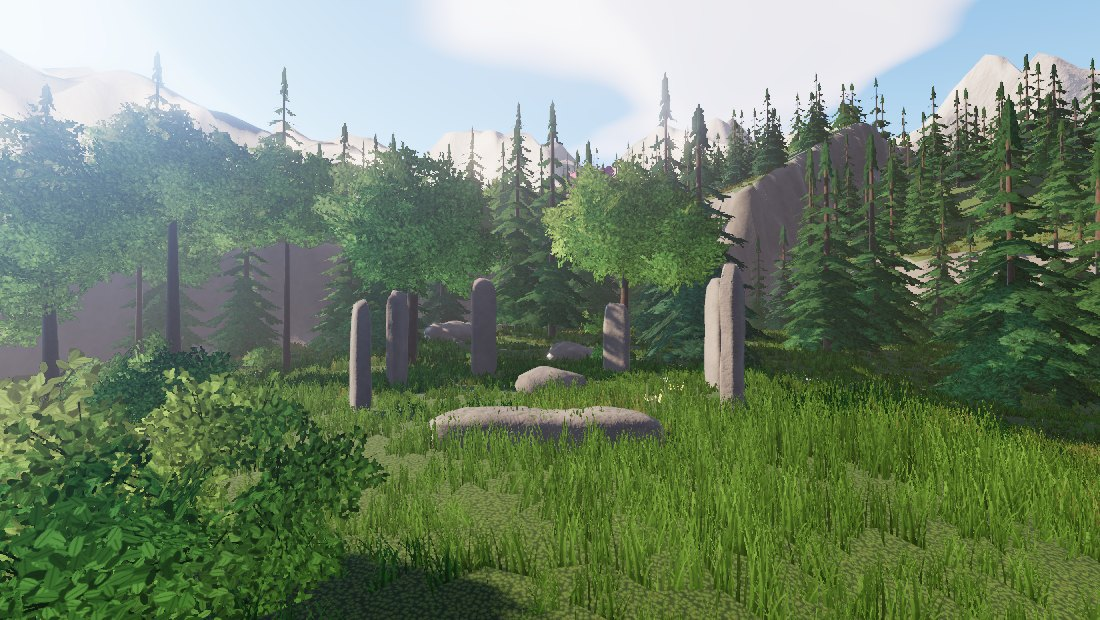
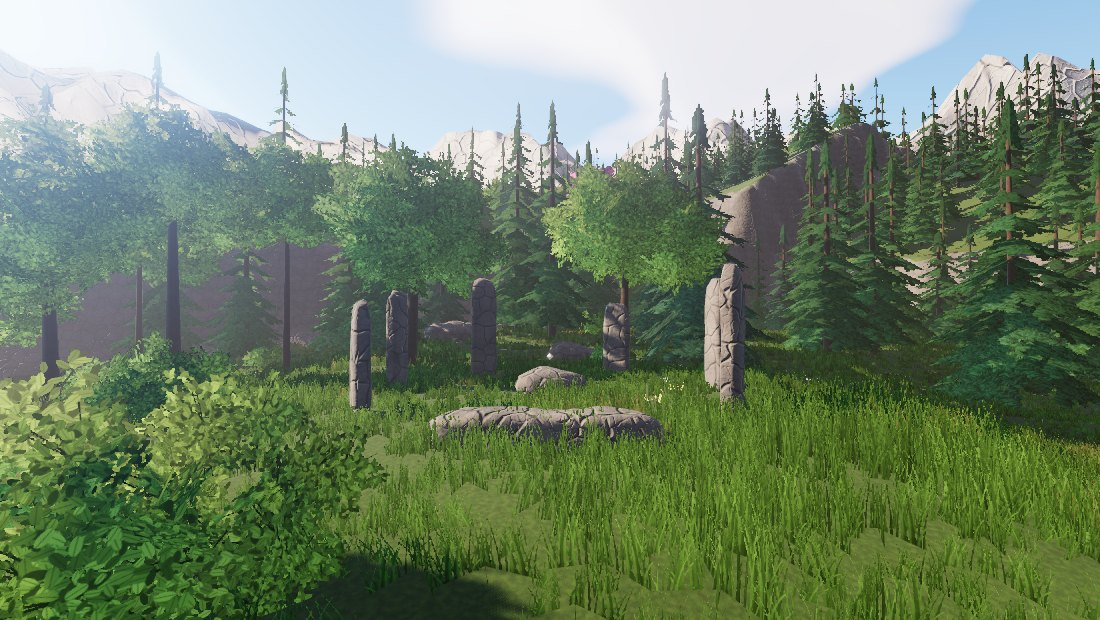
Rock that looks like rock, ground that is not pebbles, light through leaves
Two new procedural materials. Rock in the open, and in caves, is
plates split by cracks with finer fractures, bedding and lichen, in
place of the dressed-stone texture it borrowed. The ground under the
grass is a fine fibrous mat with earth in the low places, in place of
the moss texture, whose cells read as pebbles.

Leaf and grass cards let light through. The light used has already
been through the shadow map, so a crown seen against the sun glows
and one in shade does not.

The exported plan's valley caption is wrapped properly.

Claude-Session: https://claude.ai/code/session_01B8uYcq2gEB5Nx1DmHVHTup

diff --git a/src/render/textures.ts b/src/render/textures.ts
@@ -148,6 +148,59 @@ void surfaceFn(vec2 uv, float h, float cavity, out vec3 albedo, out float rough)
   albedo = base * (1. - cavity * .3);
   rough = .96;
 }`,
+  },  // Living rock in the open: plates split by cracks, smaller fractures within them, bedding, and
+  // ridged relief. Pale, like the dressed stone, so that the vertex tint sets its colour.
+  rock: {
+    normalStrength: 9.,
+    height: /* glsl */ `
+float heightFn(vec2 uv) {
+  vec2 warp = vec2(fbm(uv + 1.3, vec2(3.), 3, .5), fbm(uv + 8.9, vec2(3.), 3, .5)) * .9;
+  vec2 w1 = worley(uv * 5. + warp, vec2(5.));
+  vec2 w2 = worley(uv * 13. + warp * 1.7 + 4., vec2(13.));
+  float plates = smoothstep(.0, .14, w1.y - w1.x);
+  float chips = smoothstep(.0, .10, w2.y - w2.x);
+  float tilt = hash21(floor(uv * 5. + warp) + 2.) * .22;
+  float ridge = 1. - abs(fbm(uv + 3.1, vec2(6.), 5, .55)) * 2.4;
+  float bed = gnoise(vec2(uv.x * 3., uv.y * 26.), vec2(3., 26.)) * .5 + gnoise(vec2(uv.x * 7., uv.y * 70.), vec2(7., 70.)) * .25;
+  float grain = fbm(uv + 1.7, vec2(64.), 3, .6);
+  float h = .2 + plates * (.34 + .12 * chips) + tilt * plates + ridge * .2 + bed * .1 + grain * .08;
+  return clamp(h, 0., 1.);
+}`,
+    surface: /* glsl */ `
+void surfaceFn(vec2 uv, float h, float cavity, out vec3 albedo, out float rough) {
+  float blot = fbm(uv + 9.1, vec2(4.), 4, .5);
+  float speck = hash21(floor(uv * 512.));
+  vec3 base = mix(vec3(.50, .50, .51), vec3(.72, .70, .67), smoothstep(-.3, .35, blot));
+  // Lichen: pale grey-green and ochre crusts on the high, dry parts.
+  float crust = smoothstep(.16, .34, fbm(uv + 21.4, vec2(9.), 4, .6)) * smoothstep(.35, .7, h);
+  base = mix(base, mix(vec3(.62, .66, .50), vec3(.70, .58, .32), step(.5, hash21(floor(uv * 9.) + 5.))), crust * .55);
+  base *= mix(.72, 1.08, smoothstep(.15, .8, h));
+  base *= 1. - cavity * .6;
+  base *= .95 + speck * .1;
+  albedo = base;
+  rough = clamp(.9 + cavity * .08 - smoothstep(.6, .9, h) * .1, .55, 1.);
+}`,
+  },
+  // The ground under grass: a fine, fibrous mat with earth showing in the low places. No pattern
+  // large enough to be seen repeating; the grass standing on it carries the look.
+  ground: {
+    normalStrength: 3.5,
+    height: /* glsl */ `
+float heightFn(vec2 uv) {
+  float clump = fbm(uv + 4.2, vec2(7.), 4, .55);
+  float thatch = gnoise(vec2(uv.x * 40., uv.y * 110.), vec2(40., 110.)) * .5 + gnoise(vec2(uv.x * 120., uv.y * 46.), vec2(120., 46.)) * .5;
+  float fine = fbm(uv, vec2(90.), 3, .6);
+  return clamp(.5 + clump * .55 + thatch * .22 + fine * .16, 0., 1.);
+}`,
+    surface: /* glsl */ `
+void surfaceFn(vec2 uv, float h, float cavity, out vec3 albedo, out float rough) {
+  float t = fbm(uv + 5.5, vec2(5.), 4, .55);
+  vec3 grass = mix(vec3(.05, .095, .022), vec3(.10, .17, .035), smoothstep(.3, .75, h));
+  grass = mix(grass, vec3(.19, .2, .06), smoothstep(.1, .45, t) * .45);
+  vec3 earth = vec3(.11, .085, .05);
+  albedo = mix(grass, earth, smoothstep(.42, .26, h) * .8) * (1. - cavity * .35);
+  rough = .96;
+}`,
   },
 };
 

diff --git a/src/render/vegetation.ts b/src/render/vegetation.ts
@@ -178,6 +178,18 @@ attribute vec3 aCentre; uniform float uTime; uniform float uWind; uniform float 
   ${ground ? 'transformed *= 1.0 - smoothstep( uRange * 0.66, uRange, distance( cameraPosition, at ) );' : ''}
 }`);
     shader.fragmentShader = shader.fragmentShader
+      // Light comes through a leaf as well as off it. Seen against the sun a crown glows, and its
+      // shaded side is not black. The light used here has already been through the shadow map,
+      // so leaves in shade stay dark.
+      .replace('#include <lights_physical_pars_fragment>', /* glsl */ `#include <lights_physical_pars_fragment>
+void RE_Direct_Leaf( const in IncidentLight directLight, const in vec3 geometryPosition, const in vec3 geometryNormal, const in vec3 geometryViewDir, const in vec3 geometryClearcoatNormal, const in PhysicalMaterial material, inout ReflectedLight reflectedLight ) {
+  RE_Direct_Physical( directLight, geometryPosition, geometryNormal, geometryViewDir, geometryClearcoatNormal, material, reflectedLight );
+  float against = pow( saturate( dot( -geometryViewDir, directLight.direction ) ), 3.0 );
+  float behind = saturate( -dot( geometryNormal, directLight.direction ) );
+  reflectedLight.directDiffuse += directLight.color * material.diffuseColor * RECIPROCAL_PI * vec3( 1.2, 1.25, 0.55 ) * ( against * 0.9 + behind * 0.22 );
+}
+#undef RE_Direct
+#define RE_Direct RE_Direct_Leaf`)
       // A two-sided material turns the normal round on back faces; these normals must not turn.
       .replace('#include <normal_fragment_begin>', /* glsl */ `#include <normal_fragment_begin>
 normal = normalize( vNormal );`)
@@ -187,7 +199,7 @@ normal = normalize( vNormal );`)
 reflectedLight.indirectSpecular = vec3( 0.0 );
 reflectedLight.directSpecular *= 0.2;`);
   };
-  material.customProgramCacheKey = () => `cards3-${set.shape}-${sway}-${ground}`;
+  material.customProgramCacheKey = () => `cards4-${set.shape}-${sway}-${ground}`;
   const depth = set.shadow ? new MeshDepthMaterial({ depthPacking: RGBADepthPacking, map: texture, alphaTest: 0.42 }) : null;
 
   // Which block each card falls in.

diff --git a/src/app/main.ts b/src/app/main.ts
@@ -98,14 +98,16 @@ async function start(): Promise<void> {
   const stone = generateTextureSet(renderer, 'stone', texSize, 3);
   const wood = generateTextureSet(renderer, 'wood', texSize, 5);
   const moss = generateTextureSet(renderer, 'moss', texSize / 2, 9);
+  const rock = generateTextureSet(renderer, 'rock', texSize, 13);
+  const ground = generateTextureSet(renderer, 'ground', texSize, 17);
   const materials: Record<string, MeshStandardMaterial> = {
     stone: makeSiteMaterial(stone, moss, { normalScale: 1.0 }),
     floor: makeSiteMaterial(stone, moss, { normalScale: 1.2 }),
     slate: makeSiteMaterial(stone, moss, { normalScale: 0.7, roughness: 0.8 }),
     wood: makeSiteMaterial(wood, moss, { normalScale: 1.0 }),
-    rock: makeSiteMaterial(stone, moss, { normalScale: 2.2 }),
+    rock: makeSiteMaterial(rock, moss, { normalScale: 1.5 }),
     // Grass and leaves use the moss recipe as their own surface, tinted per vertex.
-    turf: makeSiteMaterial(moss, moss, { normalScale: 0.9 }),
+    turf: makeSiteMaterial(ground, moss, { normalScale: 1.0 }),
     leaf: makeSiteMaterial(moss, moss, { normalScale: 2.4 }),
   };
 
@@ -342,7 +344,7 @@ async function start(): Promise<void> {
   const exportSource = () => ({
     statics,
     doors: game ? game.doors.map((d) => ({ node: d.group, way: d.desc.way, material: d.desc.material })) : [],
-    textures: { stone, floor: stone, slate: stone, rock: stone, wood, turf: moss, leaf: moss },
+    textures: { stone, floor: stone, slate: stone, rock, wood, turf: ground, leaf: moss },
   });
   const menu = document.getElementById('exportMenu')!;
   document.getElementById('export')!.addEventListener('click', () => (menu.hidden = !menu.hidden));

diff --git a/src/export/exporter.ts b/src/export/exporter.ts
@@ -74,7 +74,8 @@ export function planCanvas(site: Site, size = 1800): HTMLCanvasElement {
     ctx.font = `600 ${line * 0.95}px ui-serif, Georgia, serif`;
     ctx.fillText('The valley', line * 1.5, top);
     ctx.font = `${line * 0.82}px ui-serif, Georgia, serif`;
-    ctx.fillText('The track from where you arrive to the door, the pond, and the standing stones. Rock shuts the valley in.', line * 1.5, top + line * 1.4, size - valley - line * 4);
+    wrap(ctx, 'The track from where you arrive to the door, the pond, and the standing stones. Rock shuts the valley in on three sides.', size - valley - line * 5)
+      .forEach((text, k) => ctx.fillText(text, line * 1.5, top + line * (1.5 + k * 1.15)));
     ctx.drawImage(sheet, size - valley - line * 1.5, top);
   }
   return out;

diff --git a/src/render/siteMesher.ts b/src/render/siteMesher.ts
@@ -253,7 +253,7 @@ export function meshSite(site: Site): SceneDescription {
     const worn = (x: number, z: number) => (z < p.z1 - 6 ? 0 : 1 - smooth((Math.abs(x - pathAt(z)) - 0.5) / 1.1)) * smooth((z - p.z1 + 6) / 3);
     const turfAt = (x: number, z: number): Colour => {
       const c = turfColour(x, z, s1), w = worn(x, z) * (0.75 + 0.25 * fbm2(x * 1.3, z * 1.3 + s1, 2));
-      return [c[0] + (2.5 - c[0]) * w, c[1] + (0.95 - c[1]) * w, c[2] + (0.5 - c[2]) * w];
+      return [c[0] + (2.3 - c[0]) * w, c[1] + (1.0 - c[1]) * w, c[2] + (2.2 - c[2]) * w];
     };
     const cliff = site.top - p.floor + 0.5;
     const turf = kit.mesh('turf');

diff --git a/docs/04-look.md b/docs/04-look.md
@@ -153,9 +153,9 @@ What that takes, and what is in place:
 | Ground cover: grass, flowers, low bushes | In place, as instanced cards with wind. Thin at the foot of the banks. |
 | Trees with leafy crowns, several kinds, one in blossom | In place. Crowns are clouds of leaf cards shaded about a common centre; firs are tiers of bough cards. Trunks are plain, without branches. |
 | Land running to the horizon | In place: a fine sheet over the valley and its rim, which can be walked, a coarse one out to 250 metres, and a ring of mountains to 750. |
-| Rock: banks, outcrops, boulders | Shaped and placed, but too smooth close to: it needs a rock material of its own and finer relief. |
-| Leaves lit from behind | Not done. Leaves are matt and opaque to light. |
-| A worn earth path, and ground that is more than one texture | Partly. The track down the valley is turf tinted to earth, with no grass on it; there is still only one ground texture. |
+| Rock: cliffs, outcrops, boulders, standing stones | Shaped and placed, with a rock material of its own: plates split by cracks, bedding and lichen. The shapes themselves are still smooth at the scale of a hand; the relief is all in the material. |
+| Leaves lit from behind | In place. Light that has passed the shadow map is let through each card, strongest when the leaf is seen against the sun. |
+| A worn earth path, and ground that is more than one texture | Partly. The track down the valley is turf tinted to earth, with no grass on it; the ground has a material of its own, a fine mat with earth in the low places, but still only the one. |
 | Water | A pond: a level sheet, dark and nearly a mirror, with drifting ripples. It does not show the bed through shallow water, has no shoreline foam or wet edge, and no running water. |
 | Things built outdoors: fences, steps, bridges, jetties | A landing stage and a post-and-rail fence, in plain squared timber. No steps or bridges. |
 | Haze and light shafts through the trees | Haze is in place. The fog does not yet know about the trees, so there are no shafts between them. |
